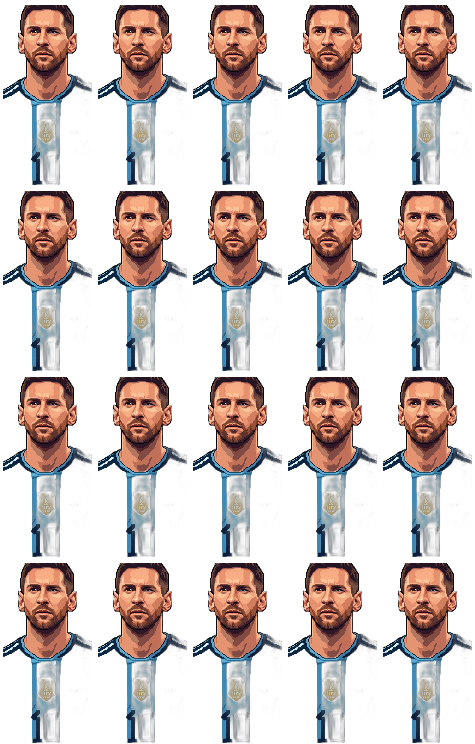
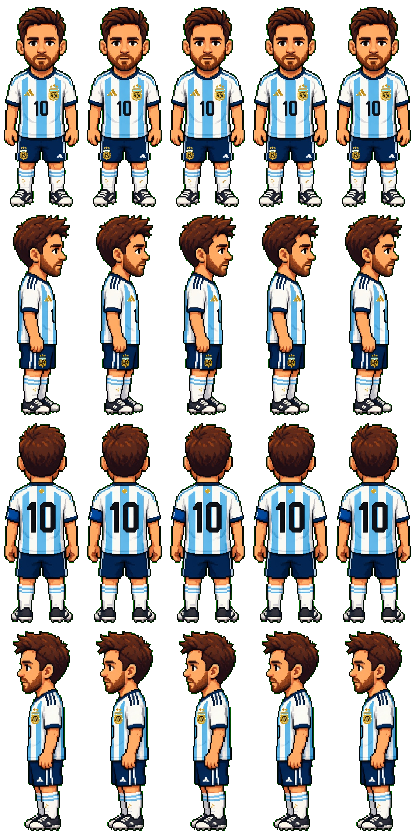
Replace Messi bust with a full-body pixel sprite.
Move him off the table onto the open floor in Frawens.

diff --git a/js/data.js b/js/data.js
@@ -365,19 +365,19 @@ const MAPS = {
     npcs: [
       {
         id: "messi",
-        tx: 14,
-        ty: 17,
+        tx: 11,
+        ty: 18,
         name: "Messi",
         dir: "down",
         visible: true,
-        portrait: "assets/messi-walk.png?v=60",
+        portrait: "assets/messi-walk.png?v=61",
         sheet: {
-          cellW: 95,
-          cellH: 186,
+          cellW: 83,
+          cellH: 208,
           idle: 0,
           walk: [0, 0, 0, 0],
           foot: 2,
-          scale: WORLD_PX / 150,
+          scale: WORLD_PX / 165,
           dirs: { down: 0, right: 1, up: 2, left: 3 },
         },
         lines: [
@@ -390,7 +390,7 @@ const MAPS = {
           options: ["Nacional", "Liceo", "Bellas Artes"],
           correct: 2,
           coinId: "frawens",
-          land: { tx: 15, ty: 18 },
+          land: { tx: 12, ty: 19 },
           win: ["¡Bien ahí!", "Bellas Artes. Ahí te revoleo la moneda."],
           lose: ["Nop, esa no es.", "Pensala de nuevo y volvé a hablarme."],
           done: ["Ya te tiré la moneda.", "Andá a buscarla al piso."],

diff --git a/index.html b/index.html
@@ -7,7 +7,7 @@
     <link rel="preconnect" href="https://fonts.googleapis.com" />
     <link rel="preconnect" href="https://fonts.gstatic.com" crossorigin />
     <link href="https://fonts.googleapis.com/css2?family=Press+Start+2P&display=swap" rel="stylesheet" />
-    <link rel="stylesheet" href="css/game.css?v=60" />
+    <link rel="stylesheet" href="css/game.css?v=61" />
   </head>
   <body>
     <div id="app">
@@ -22,8 +22,8 @@
         <button type="button" id="talk">Hablar</button>
       </div>
     </div>
-    <script src="js/config.js?v=60"></script>
-    <script src="js/data.js?v=60"></script>
-    <script src="js/game.js?v=60"></script>
+    <script src="js/config.js?v=61"></script>
+    <script src="js/data.js?v=61"></script>
+    <script src="js/game.js?v=61"></script>
   </body>
 </html>
